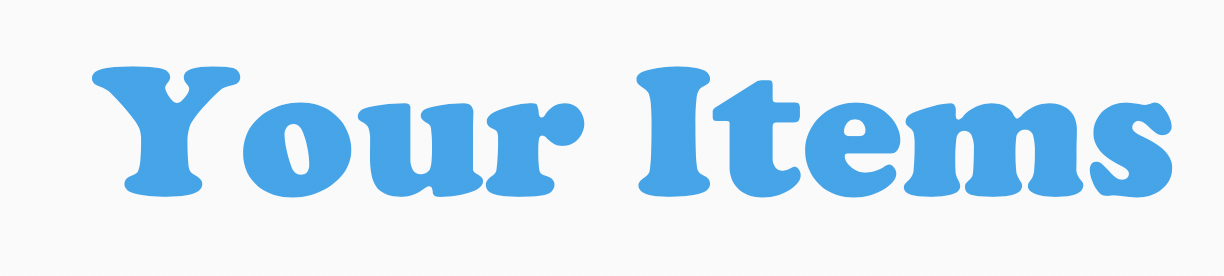
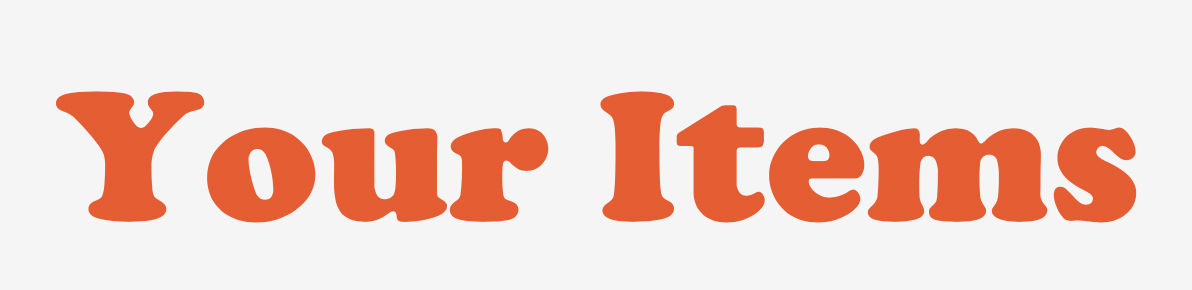
Added privacy page and MQ for 404

diff --git a/client/src/pages/Privacy.js b/client/src/pages/Privacy.js
@@ -1,0 +1,48 @@
+import React from 'react';
+
+//Material UI Imports
+import { Card, CardContent, Container, Grid, Typography } from '@material-ui/core/'
+
+
+import Header from '../components/Header'
+
+import '../App.css'
+
+function Privacy() {
+    return (
+        <React.Fragment>
+            <Header type='privacy' />
+            <Container className='container'>
+                <Grid container>
+                    <Grid item md={12} sm={12} xs={12}>
+                        <Card className="card">
+                            <CardContent>
+                                <Typography variant='h4' align='center' className='h4'>Privacy Notice</Typography>
+                                <Typography className='mt-2'>This privacy notice discloses the privacy practices for the Lost & Found website. This privacy notice applies solely to information collected by this website. It will notify you of the following:</Typography>
+                               <ol className='mt-1'>
+                                    <li className='ml-3'>What personally identifiable information is collected from you through the website, how it is used and with whom it may be shared.</li>
+                                    <li className='ml-3'>What choices are available to you regarding the use of your data.</li>
+                                    <li className='ml-3'>The security procedures in place to protect the misuse of your information.</li>
+                                </ol>
+                                <Typography variant='h5' className='mt-2'>How you can correct any inaccuracies in the information.</Typography>
+                                <Typography variant='h6' className='mt-2'>Information Collection, Use, and Sharing </Typography>
+                                <Typography className='mt-1'>We are the sole owners of the information collected on this site. We only have access to/collect information that you voluntarily give us via the site.</Typography>
+                                <Typography className='mt-1'>The information collected on the site will not be shared with any third party outside of our organization, other than as necessary to fulfill your request.</Typography>
+                                 <ol className='mt-1'>
+                                    <li className='ml-3'> See what data we have about you, if any.</li>
+                                    <li className='ml-3'>Change/correct any data we have about you.</li>
+                                    <li className='ml-3'>Have us delete any data we have about you.</li>
+                                    <li className='ml-3'>Express any concern you have about our use of your data.</li>
+                                </ol>
+                                <Typography variant='h6' className='mt-2'>Security </Typography>
+                                <Typography className='mt-1'>We take precautions to protect your information. When you submit sensitive information via the website, your information is protected both online and offline.</Typography>
+                            </CardContent>
+                        </Card>
+                    </Grid>
+                </Grid>
+            </Container>
+        </React.Fragment>
+    );
+}
+
+export default Privacy;

diff --git a/client/src/pages/nomatch.css b/client/src/pages/nomatch.css
@@ -4,9 +4,106 @@
 }
 
 .notFoundContainer {
-    margin-top: 8rem!important
+    margin-top: 8rem;
 }
 
 /* MEDIA QUERIES ***************************************/
 /* iPad Pro *******************************************/
 /* Portrait */
+@media (min-width: 1024px) and (max-width: 1366px) and (orientation: portrait) {
+    .notFoundContainer {
+        margin-top: 30rem;
+    }
+}
+
+/* Landscape */
+@media (min-width: 1024px) and (max-width: 1366px) and (orientation: landscape) {
+    .notFoundContainer {
+        margin-top: 18rem;
+    }
+}
+
+/* iPad *******************************************/
+/* Portrait */
+@media (min-width: 768px) and (max-width: 1023px) and (orientation: portrait) {
+    .notFoundContainer {
+        margin-top: 18rem;
+    }
+}
+/* Landscape */
+@media (min-width: 768px) and (max-width: 1024px) and (orientation: landscape) {
+    .notFoundContainer {
+        margin-top: 12rem;
+    }
+}
+
+/* iPhone X *******************************************/
+/* Portrait */
+@media only screen and (min-width: 375px) and (max-width: 812px) and (-webkit-min-device-pixel-ratio: 3) and (orientation: portrait) { 
+    .notFoundContainer {
+        margin-top: 18rem;
+    }
+}
+
+/* Landscape */
+@media only screen and (min-width: 375px) and (max-width: 812px) and (orientation: landscape) {
+    .notFoundContainer {
+        margin-top: 5rem;
+    }
+    .gif {
+        display: block;
+        width: 305;
+        margin-left: auto;
+        margin-right: auto;
+        margin-bottom: 0.25rem;
+    }
+}
+
+/* iPhone 6+, 7+, 8+ *******************************************/
+/* Portrait */
+@media only screen and (min-width: 414px) and (max-width: 736px) and (-webkit-min-device-pixel-ratio: 3) and (orientation: portrait) {
+    .notFoundContainer {
+        margin-top: 15rem;
+    }
+}
+
+@media only screen and (min-width: 414px) and (max-width: 736px) and (-webkit-min-device-pixel-ratio: 3) and (orientation: landscape) {
+    .notFoundContainer {
+        margin-top: 7rem;
+    }
+}
+
+/* iPhone 6, 7, 8 *******************************************/
+/* Portrait */
+@media only screen and (min-width: 375px) and (max-width: 667px) and (-webkit-min-device-pixel-ratio: 2) and (orientation: portrait) {
+    .notFoundContainer {
+        margin-top: 12rem;
+    }
+}
+/* Landscape */
+@media only screen and (min-width: 375px) and (max-width: 667px) and (-webkit-min-device-pixel-ratio: 2) and (orientation: landscape) {
+    .notFoundContainer {
+        margin-top: 7rem;
+    }
+}
+
+/* iPhone 5, 5S, 5C, 5SE *******************************************/
+/* Portrait */
+@media only screen and (min-width: 320px) and (max-width: 568px) and (-webkit-min-device-pixel-ratio: 2) and (orientation: portrait) {
+    .notFoundContainer {
+        margin-top: 12rem;
+    }
+}
+
+/* Landscape */
+@media only screen and (min-width: 320px) and (max-width: 568px) and (-webkit-min-device-pixel-ratio: 2) and (orientation: landscape) {
+    .notFoundContainer {
+        margin-top: 4rem;
+        margin-bottom: 3rem;
+    }
+     .gif {
+        display: block;
+        width: 100!important;
+        margin-bottom: 0.25rem;
+    } 
+}

diff --git a/client/src/components/Footer/style.css b/client/src/components/Footer/style.css
@@ -88,15 +88,6 @@
         visibility: hidden;
     }
 }
-/* Landscape */
-@media (min-width: 768px) and (max-width: 1024px) and (orientation: landscape) {
-    /* .footer {
-        height: 12%!important;
-    }
-    #bottom {
-        padding: 0 0 0 6rem;
-    } */
-}
 
 /* iPhone X *******************************************/
 /* Portrait */
@@ -187,25 +178,6 @@
         visibility: hidden;
     }
 }
-/* Landscape */
-@media only screen and (min-width: 375px) and (max-width: 667px) and (-webkit-min-device-pixel-ratio: 2) and (orientation: landscape) {
-    /* .footer {
-        height: 12%!important;
-        padding: 0.75rem;
-    }
-    .displayFooter{
-        display: none;
-    }
-    .navigationFooter {
-        display: none;
-    }
-    #hide {
-        display: contents;
-    }
-    #show {
-        visibility: hidden;
-    } */
-}
 
 /* iPhone 5, 5S, 5C, 5SE *******************************************/
 /* Portrait */
@@ -226,25 +198,4 @@
     #show {
         visibility: hidden;
     }
-}
-
-/* Landscape */
-@media only screen and (min-width: 320px) and (max-width: 568px) and (-webkit-min-device-pixel-ratio: 2) and (orientation: landscape) {
-    /* .footer {
-        height: 12%!important;
-        padding: 0.5rem;
-        justify-content: center;
-    }
-    .displayFooter{
-        display: none;
-    }
-    #hide {
-        display: contents;
-    }
-    .navigationFooter {
-        display: none;
-    }
-    #show {
-        visibility: hidden;
-    } */
 }

diff --git a/client/src/pages/NoMatch.js b/client/src/pages/NoMatch.js
@@ -15,9 +15,9 @@ export default function NoMatch() {
         <React.Fragment>
             <Container className='notFoundContainer'>
             <Grid container justify='center'>
-                <Grid item md={7} sm={12} xs={12} className='gif'>
-                    <img src='/images/404.gif' alt='404 gif'/>
-                    <Button fullWidth style={{ backgroundColor: '#F6511D', color: 'white' }} component={Link} to='/' className='hover'>Home</Button>
+                <Grid item md={7} sm={5} xs={8}>
+                    <img src='/images/404.gif' alt='404 gif' className='gif'/>
+                    <Button fullWidth className='gif' style={{ backgroundColor: '#F6511D', color: 'white' }} component={Link} to='/' className='hover buttonWidth'>Home</Button>
                 </Grid>
             </Grid>
             </Container>

diff --git a/client/src/components/Header/index.js b/client/src/components/Header/index.js
@@ -13,7 +13,7 @@ function Header(props) {
   }
   else if (props.type === 'profile'){
     backgroundImage = "url('/images/profile.png')";
-    color = '#0D2C54'
+    color = '#193067'
   }
   else if (props.type === 'about'){
     backgroundImage = "url('/images/about.png')";
@@ -21,7 +21,11 @@ function Header(props) {
   }
   else if (props.type === 'items'){
     backgroundImage = "url('/images/items.png')";
-    color = '#00A6ED'
+    color = '#F6511D'
+  }
+  else if (props.type === 'privacy'){
+    backgroundImage = "url('/images/privacy.png')";
+    color = '#0D2C54'
   }
   return (
     <div className='heroContent' style={{backgroundImage: backgroundImage, borderColor: color}}></div>

diff --git a/client/src/App.js b/client/src/App.js
@@ -10,6 +10,7 @@ import Found from './pages/Found';
 import NoMatch from './pages/NoMatch';
 import About from './pages/About'
 import Profile from './pages/Profile'
+import Privacy from './pages/Privacy'
 
 import Navbar from './components/Nav';
 import Footer from './components/Footer';
@@ -44,6 +45,7 @@ return (
               <Route exact path='/searchitem' component={Lost} />
               <Route exact path='/postitem' component={Found} />
               <Route exact path='/about' component={About} />
+              <Route exact path='/privacy' component={Privacy} />
               <Route component={NoMatch} />
             </Switch>
             <Footer />

diff --git a/client/src/components/Footer/index.js b/client/src/components/Footer/index.js
@@ -21,7 +21,7 @@ export default function Footer() {
                 </Grid>
                 <Grid items md={4} className='buttonNav'>
                     <Button><Link align='center' className='navigationFooter' to='/about'>About Us</Link></Button><br></br>
-                    <Button><Link align='center' className='navigationFooter'>Terms and Conditions</Link></Button>
+                    <Button><Link align='center' className='navigationFooter' to='/privacy'>Privacy Policy</Link></Button>
                 </Grid>
                 <Typography id="show">Copyright 2019 - Lost & Found</Typography>
             </Grid>

diff --git a/client/src/components/Nav/style.css b/client/src/components/Nav/style.css
@@ -49,7 +49,7 @@
 
 /* iPad *******************************************/
 /* Portrait */
-@media (min-width: 768px) and (max-width: 1023px) and (orientation: portrait) {
+@media (min-width: 320px) and (max-width: 1023px) and (orientation: portrait) {
   .homelink{
     float: right!important;
    }
@@ -58,5 +58,7 @@
 /* iPhone 5, 5S, 5C, 5SE ************************************/
 /* Portrait */
 @media only screen and (min-width: 320px) and (max-width: 568px)and (-webkit-min-device-pixel-ratio: 2)and (orientation: portrait) {
-  
+  /* .display {
+    width: 200px;
+  } */
 }

diff --git a/client/src/App.css b/client/src/App.css
@@ -198,15 +198,31 @@ img {
 }
 
 .mt-1 {
-    margin-top: 1rem;
+    margin-top: 1rem!important;
 }
 
 .mt-2 {
-    margin-top: 2rem;
+    margin-top: 2rem!important;
 }
 
 .mt-3 {
     margin-top: 3rem;
+}
+
+.ml {
+    margin-left: 0.5rem;
+}
+
+.ml-1 {
+    margin-left: 1rem;
+}
+
+.ml-2 {
+    margin-left: 2rem;
+}
+
+.ml-3 {
+    margin-left: 3rem;
 }
 
 /* Grid */
@@ -473,7 +489,7 @@ table th {
     display: flex;
     flex-wrap: wrap;
     margin-bottom: 13%!important;
-    padding-top: 5rem!important
+    padding-top: 2rem!important
 }
 
 .h4 {

diff --git a/client/src/components/auth/Register.js b/client/src/components/auth/Register.js
@@ -5,7 +5,7 @@ import Alerts from '../layout/Alerts';
 import { Link } from 'react-router-dom';
 
 // Material UI Imports
-import { Button, Card, CardContent, Container, CssBaseline, Grid, TextField, Typography } from '@material-ui/core/'
+import { Button, Card, CardContent, Container, Grid, TextField, Typography } from '@material-ui/core/'
 import Person from '@material-ui/icons/AccountCircleSharp'
 
 import './auth.css'

diff --git a/client/src/components/Nav/index.js b/client/src/components/Nav/index.js
@@ -117,7 +117,7 @@ const Navbar = () => {
                 </ListItem>
                 <ListItem>
                     <Button>
-                        <Linkm component={Link} to='/terms' size='medium'>Terms and Conditions</Linkm>
+                        <Linkm component={Link} to='/privacy' size='medium'>Privacy Policy</Linkm>
                     </Button>
                 </ListItem>
             </List>

diff --git a/client/src/components/profiles/ProfileForm.js b/client/src/components/profiles/ProfileForm.js
@@ -5,7 +5,7 @@ import AuthContext from '../../context/auth/authContext';
 import Alerts from '../layout/Alerts';
 
 //Material UI Imports
-import { Button, Card, CardContent, Container, TextField, Typography } from '@material-ui/core/'
+import { Button, Card, CardContent, TextField, Typography } from '@material-ui/core/'
 
 //Import files
 import './style.css';
